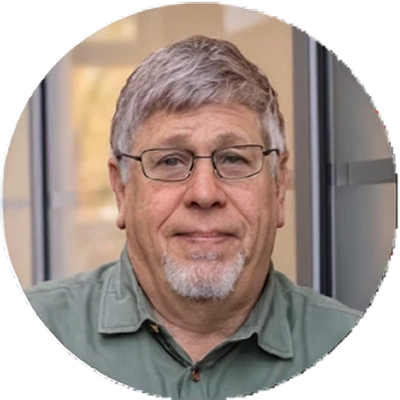
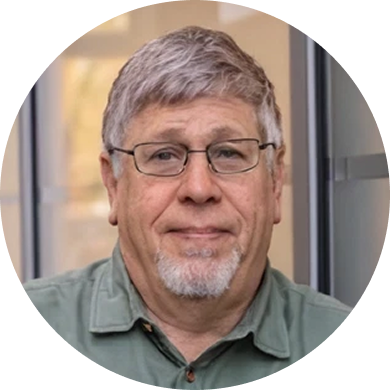
Unframe the team portraits and take the new cutouts
The supplied headshots were re-exported as clean 390x390 circular
cutouts, so wire them in and drop the frame chrome that was compensating
for the old ones.

Three things were drawing a rim the artwork never needed: a `ring-1`
hairline just outside the photo's own circle, a `bg-paper` disc behind
it, and a drop shadow. The cream disc was the worst of them — it lit up
the 1px seam where the frame's border-radius antialiasing overlaps the
PNG's, so every portrait sat inside a pale ring against the section's
warmer paper-tint. Composited at the real render size the band is
unmistakable before and absent after.

The portraits now sit on the section ground unframed. Nothing should go
back on this frame: a ring, a background fill, or a shadow each puts the
rim back.

Also refreshes two comments in AboutScience that pointed at the shadow
these frames used to carry, and one that described the 4:5 Resnicow
plate as matching a leader band that has been circular for a while.

Verified: 7 portraits at 198px on a 1280 viewport, band spanning the
full content measure (76 to 1204), advisors still aligned under the
leaders, computed border/shadow/background all cleared. tsc clean,
production build clean, /about 10.4 kB.

diff --git a/components/about/AboutTeam.tsx b/components/about/AboutTeam.tsx
@@ -261,12 +261,23 @@ function PersonCard({
           still runs edge to edge. Reach for the gutter to resize these,
           not for a width on the portrait.
 
-          RESOLUTION CAVEAT: the source files are 400x400, which was the
-          crisp ceiling for the previous 192px step at 2x DPR. Filling the
-          column puts these near 294px on a wide screen, so on a retina
-          display they are upscaled roughly 1.5x and will read slightly
-          soft. That is a limit of the supplied assets, not of the layout —
-          the fix is higher-resolution originals, not a smaller frame.
+          NO FRAME CHROME, deliberately. This carried a `ring-1` hairline,
+          a `bg-paper` fill and a drop shadow, and all three fought the
+          artwork: the supplied circle already ends in a clean antialiased
+          edge, so the ring drew a second contour just outside it and the
+          cream fill lit up the 1px seam where the two circles' antialiasing
+          overlaps — a pale rim against the section's warmer paper-tint.
+          Read together they looked like a border the portraits were never
+          meant to have. The cutouts sit on the section ground unframed;
+          they need nothing else to read as portraits. Do not reintroduce a
+          ring, a background fill, or a shadow here — any of them puts the
+          rim back.
+
+          RESOLUTION CAVEAT: the source files are 390x390. Filling the
+          column puts these near 234px on a wide screen, so on a retina
+          display they are upscaled roughly 1.2x and may read a touch soft.
+          That is a limit of the supplied assets, not of the layout — the
+          fix is higher-resolution originals, not a smaller frame.
 
           One size for leaders and advisors alike. The advisors used to
           render two steps smaller, which broke the vertical alignment
@@ -276,13 +287,7 @@ function PersonCard({
           portrait — serif name and brand-colored role for leaders, plain
           sans for advisors — which is enough of a signal without shrinking
           the faces. */}
-      <div
-        className="relative aspect-square w-full shrink-0 overflow-hidden rounded-full bg-paper ring-1 ring-ink/[0.06]"
-        style={{
-          boxShadow:
-            "0 1px 2px rgba(40,25,15,0.05), 0 14px 30px -20px rgba(40,25,15,0.22)",
-        }}
-      >
+      <div className="relative aspect-square w-full shrink-0 overflow-hidden rounded-full">
         {/* eslint-disable-next-line @next/next/no-img-element */}
         <img
           src={person.photo}

diff --git a/components/about/AboutScience.tsx b/components/about/AboutScience.tsx
@@ -349,7 +349,7 @@ function BlogCardTile({ card, index }: { card: BlogCard; index: number }) {
              `rgba(20,8,2,0.16)`. Two different-colored lights in one stack,
              and neither matched the warm `rgba(40,25,15,...)` tint that every
              other paper surface on this page uses (DrPortrait below, the
-             AboutTeam portraits and pill). Against bg-paper-warm plus the
+             AboutTeam advisory pill). Against bg-paper-warm plus the
              brand-orange radial wash, that cold-then-black mix grimed the
              card edge instead of warming under it.
 
@@ -362,8 +362,10 @@ function BlogCardTile({ card, index }: { card: BlogCard; index: number }) {
              detached slab hovering over a dark halo rather than paper
              lifting slightly off the page.
 
-          The new resting value is the established mid tier from this same
-          page (AboutTeam's portrait frames): a 30px blur pulled back 20px
+          The new resting value is the established mid tier for a paper
+          card on this page — these blog cards are now the only place it
+          lives, since AboutTeam's portraits dropped their shadow when the
+          circular cutouts were unframed: a 30px blur pulled back 20px
           leaves only ~10px of visible bleed, which keeps the shadow tucked
           under the card's own bottom edge. Same warm tint on both layers, so
           the light finally comes from one place. Hover nudges one step up
@@ -385,8 +387,10 @@ function BlogCardTile({ card, index }: { card: BlogCard; index: number }) {
 }
 
 /**
- * Editorial portrait of Dr. Resnicow on the warm-paper register. 4:5 aspect
- * to match the leader band on AboutTeam. Object-position biases left+up so
+ * Editorial portrait of Dr. Resnicow on the warm-paper register. A 4:5
+ * rounded rectangle, deliberately unlike the circular cutouts in the
+ * AboutTeam band — this is the one full-scale editorial portrait on the
+ * page and reads as a plate, not an avatar. Object-position biases left+up so
  * the face stays in the visual centre of the crop (source is landscape).
  * Subtle drop shadow + cream backdrop keep the photo sitting on paper, not
  * floating as a stark rectangle.
